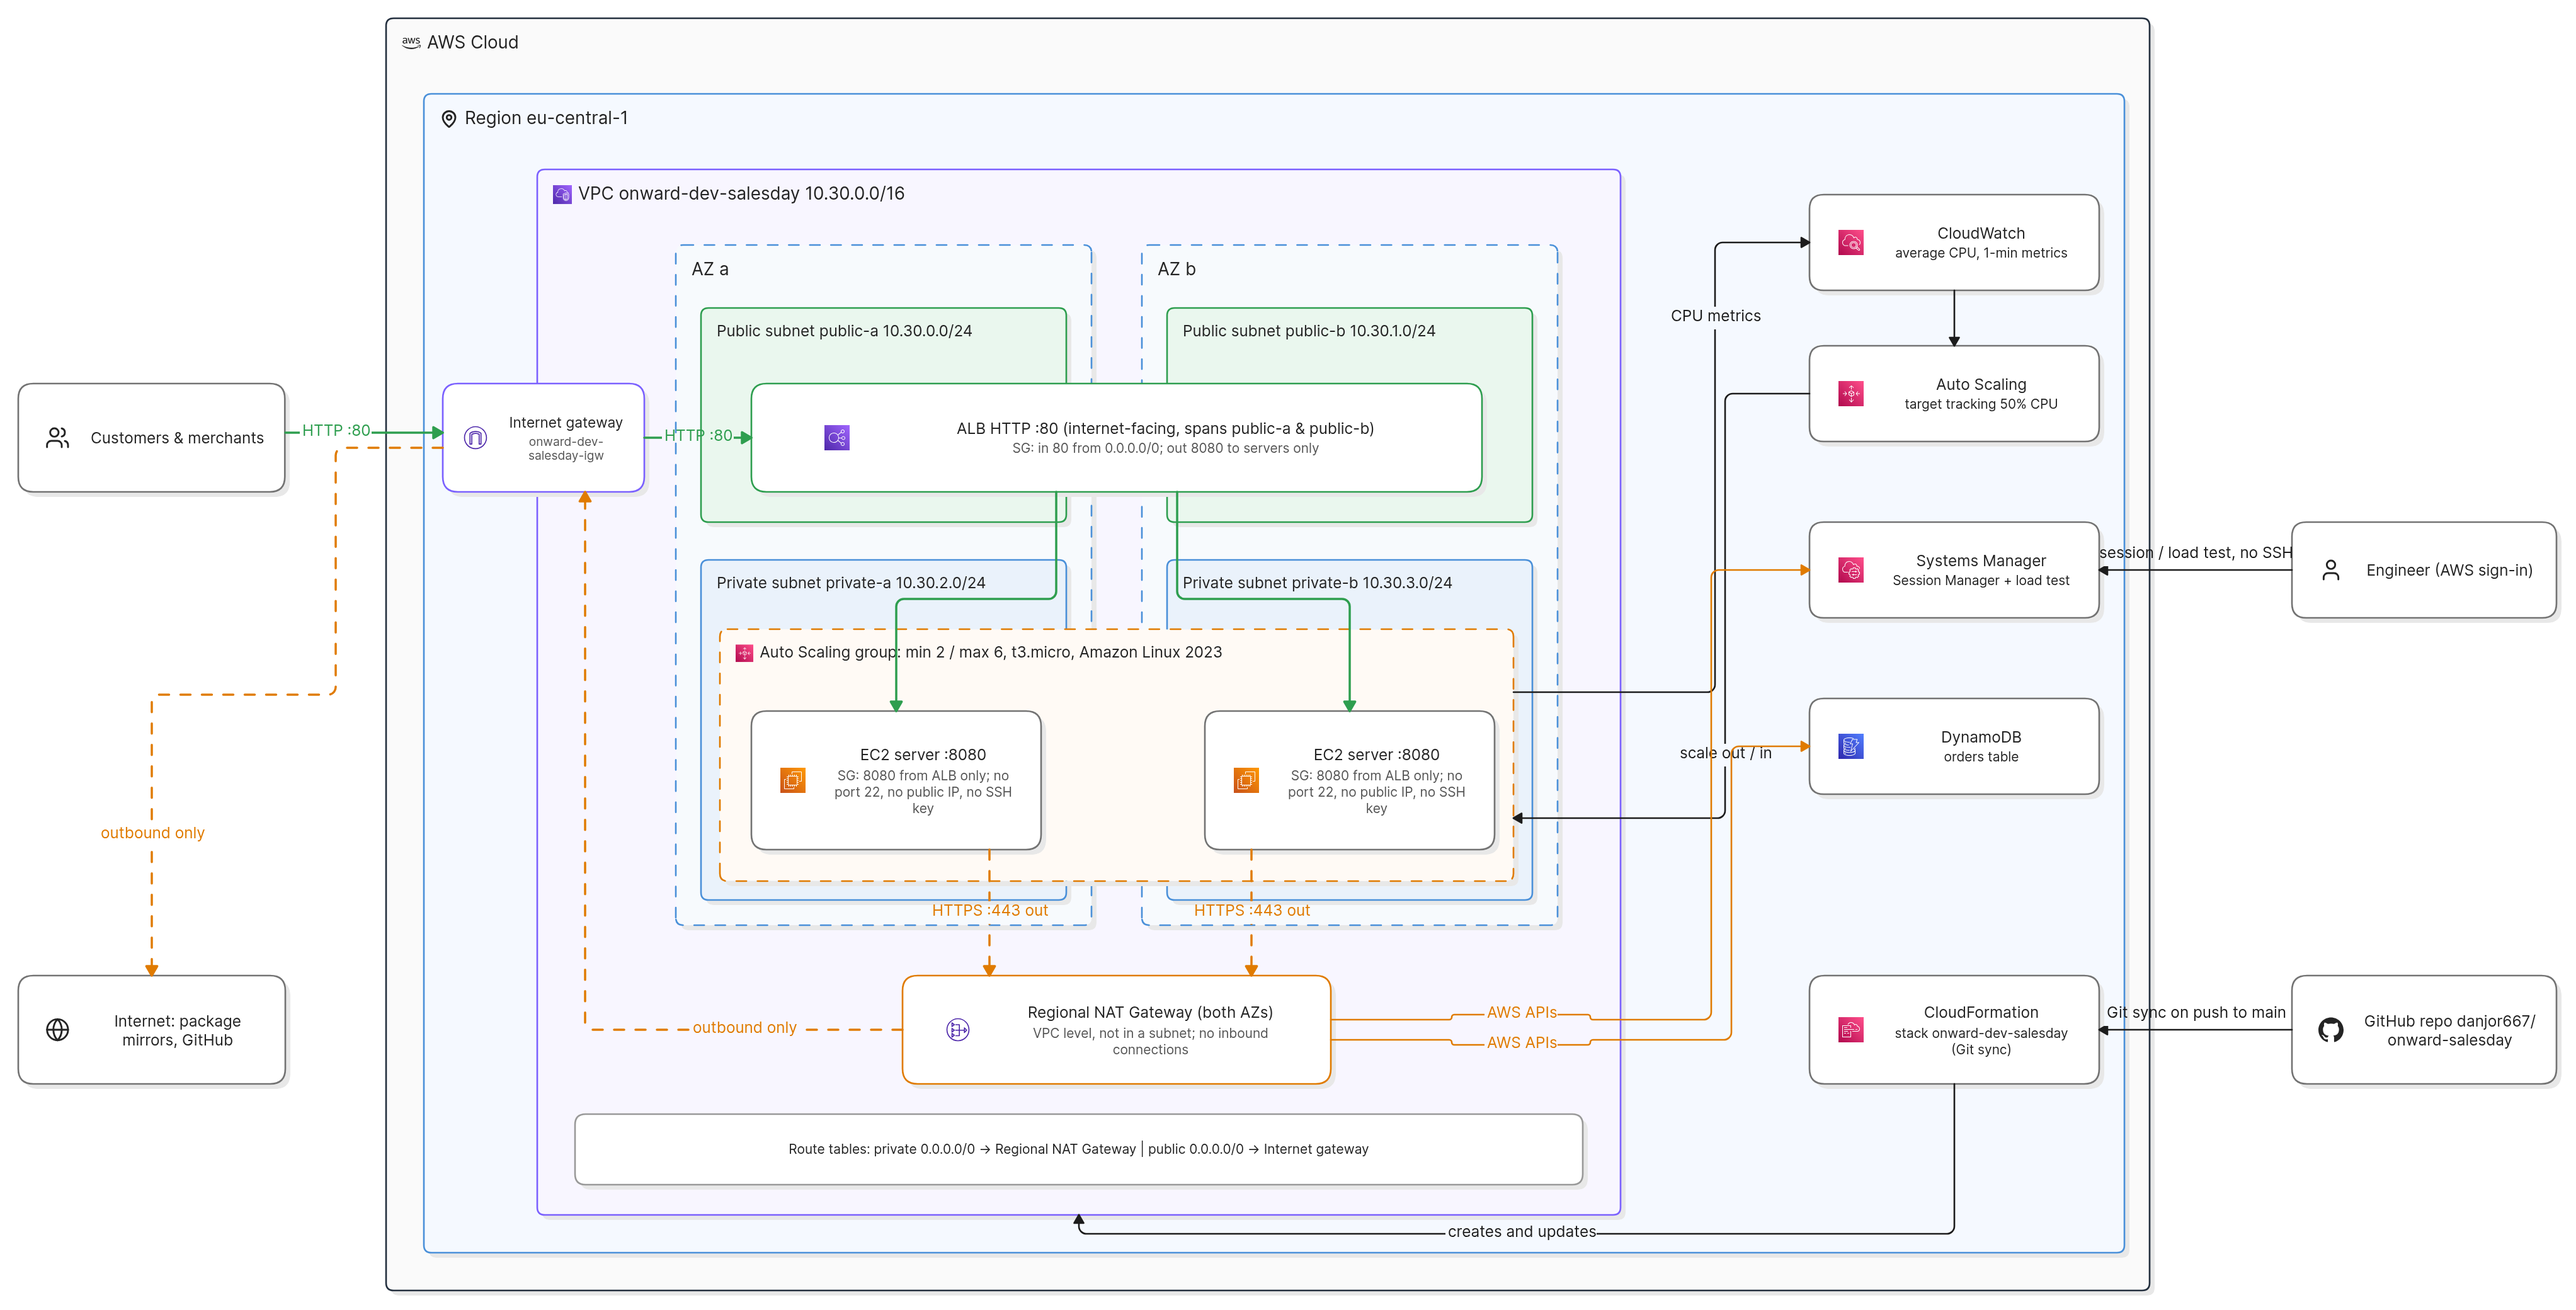
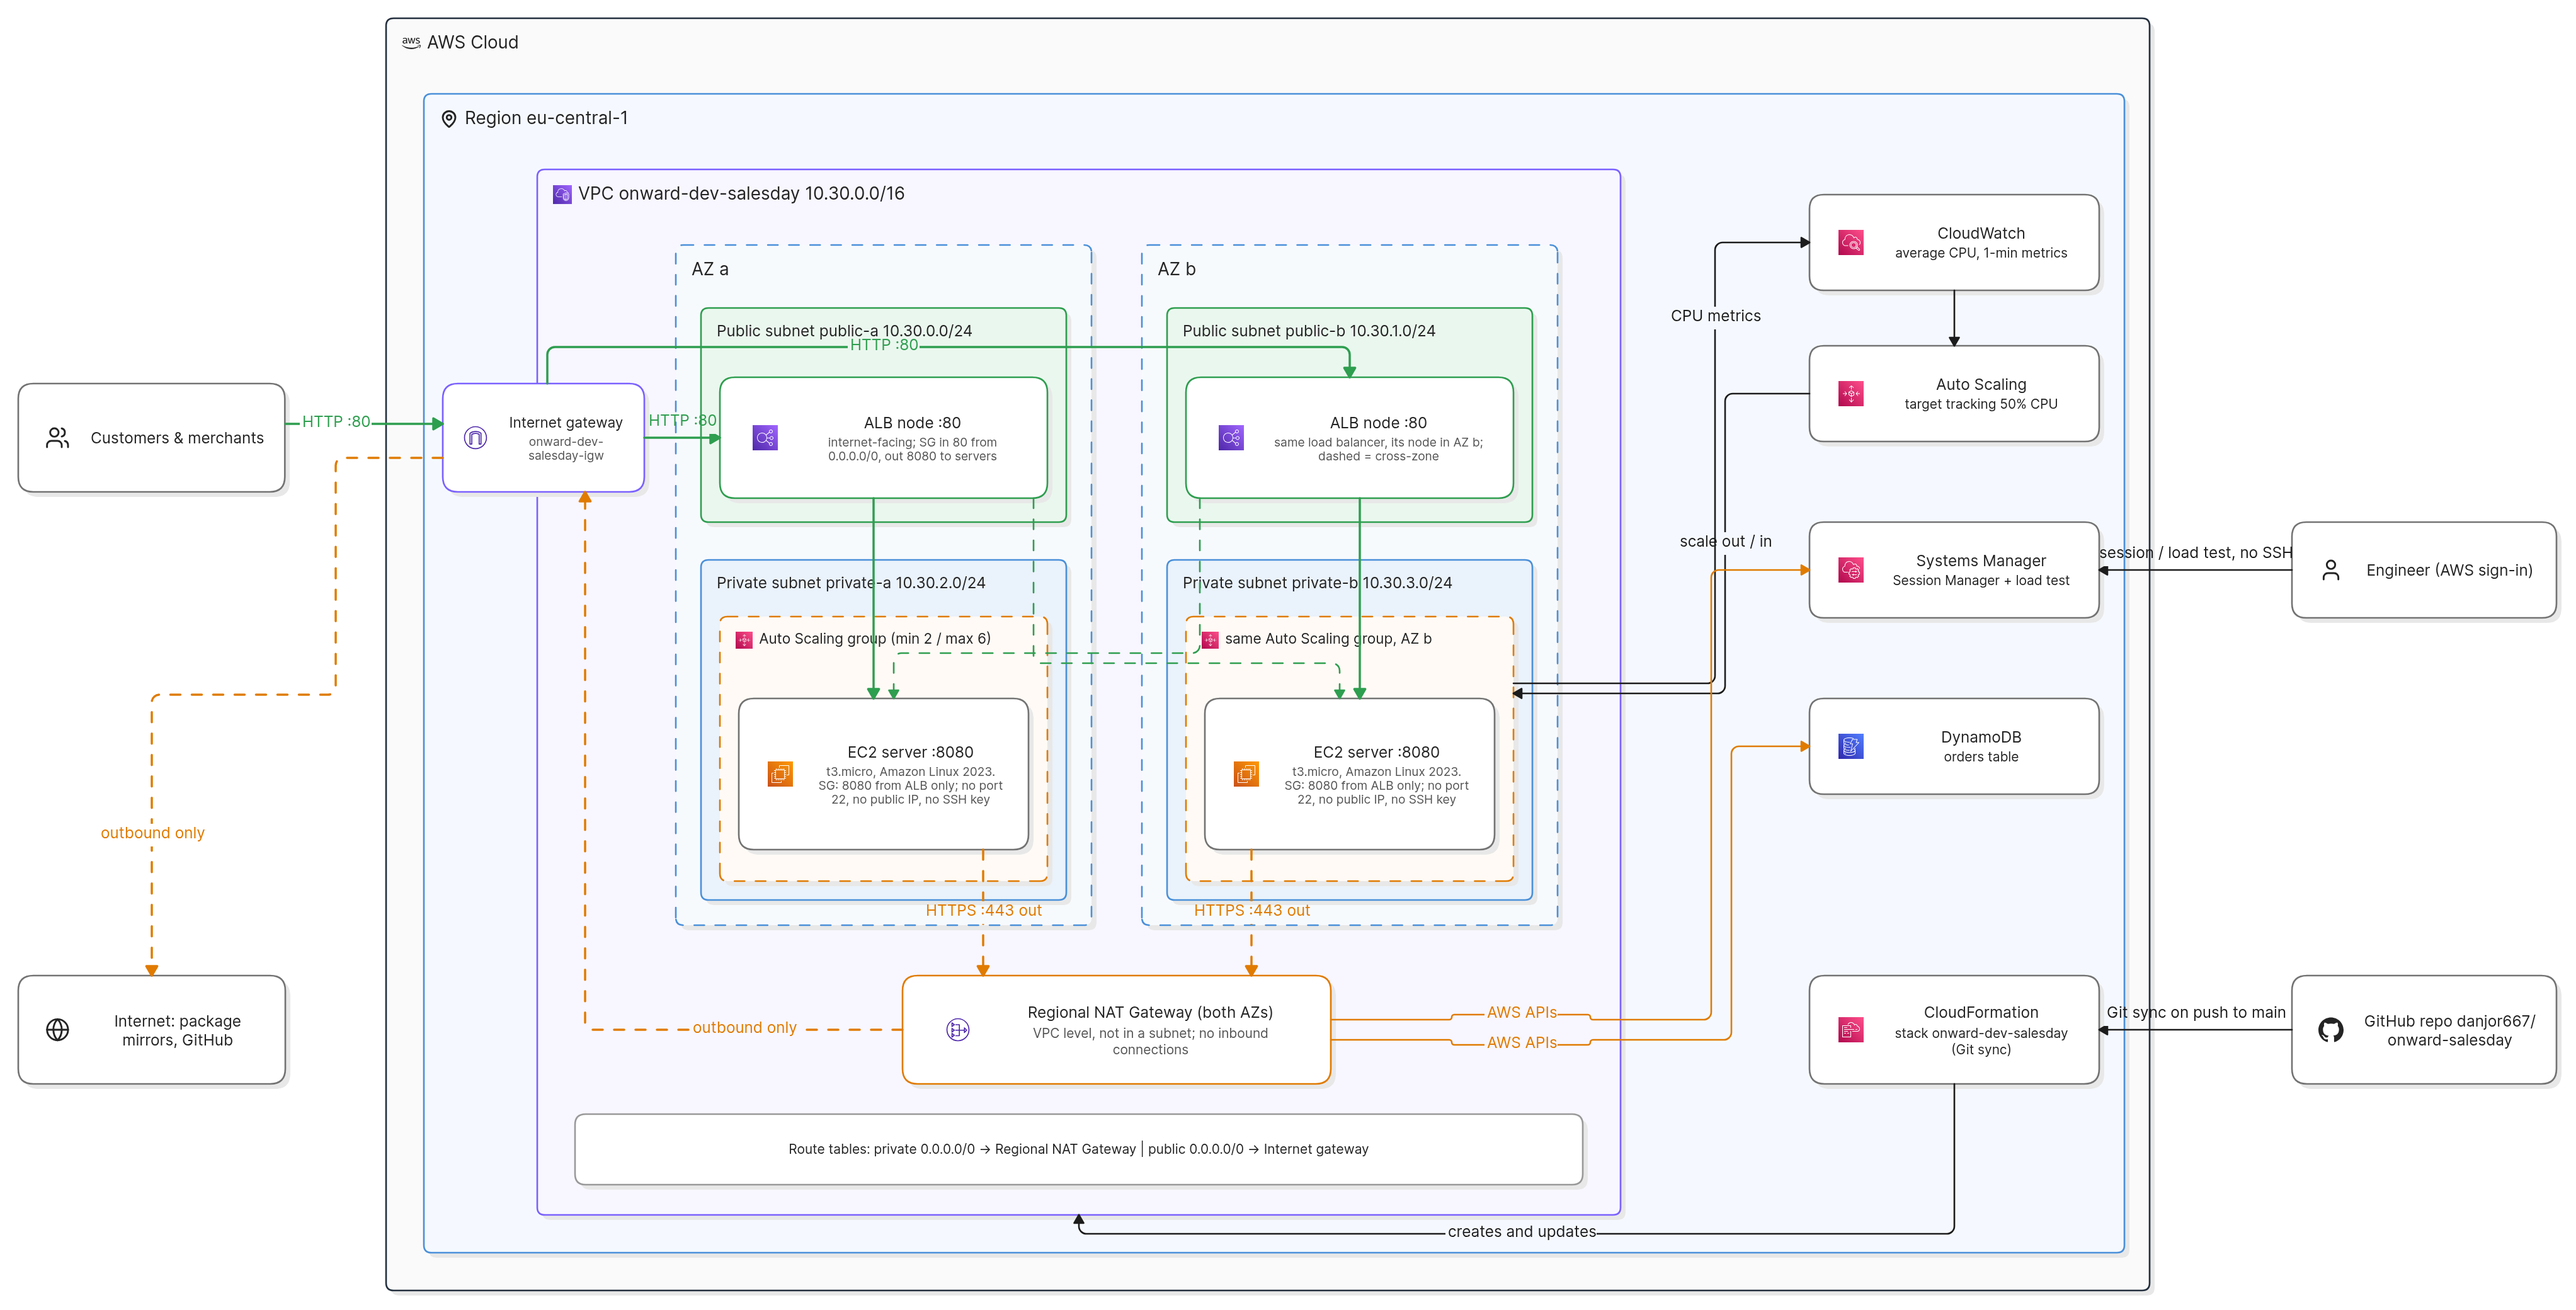
Update documentation for discovery reports and remove obsolete links
The discovery reports now include key design decisions alongside existing information. Removed outdated references to `docs/decisions.md`, which is no longer relevant, to maintain consistency. Added a new discovery report file in `onward-orders-infra`.

diff --git a/README.md b/README.md
@@ -12,33 +12,45 @@ console.
 
 ```mermaid
 flowchart TB
-  USERS((Customers and merchants)) -->|HTTP 80| ALB
+  USERS((Customers and merchants)) -->|HTTP 80| IGW[Internet gateway]
 
-  subgraph VPC["VPC, two Availability Zones"]
-    subgraph PUB["Public subnets"]
-      ALB[Application Load Balancer<br/>the only public address]
+  subgraph VPC["VPC 10.30.0.0/16"]
+    subgraph AZA["Availability Zone a"]
+      subgraph PUBA["Public subnet 10.30.0.0/24"]
+        ALBA[Load balancer node]
+      end
+      subgraph PRIVA["Private subnet 10.30.2.0/24"]
+        EC2A["EC2 server :8080"]
+      end
     end
-    subgraph PRIV["Private subnets: no public IP, no inbound from internet"]
-      ASG["Auto Scaling group, 2 to 6 servers<br/>Amazon Linux 2023, t3.micro"]
+    subgraph AZB["Availability Zone b"]
+      subgraph PUBB["Public subnet 10.30.1.0/24"]
+        ALBB[Load balancer node]
+      end
+      subgraph PRIVB["Private subnet 10.30.3.0/24"]
+        EC2B["EC2 server :8080"]
+      end
     end
-    NAT[Regional NAT Gateway<br/>outbound only]
+    NAT[Regional NAT Gateway<br/>both zones, outbound only]
     GWE[S3 and DynamoDB<br/>gateway endpoints]
   end
 
-  ALB -->|8080, health checked| ASG
-  ASG -->|HTTPS out| NAT --> NET((Internet:<br/>GitHub, Systems Manager))
-  ASG --> GWE
+  IGW --> ALBA & ALBB
+  ALBA & ALBB -->|8080, health checked| EC2A & EC2B
+  EC2A & EC2B -->|HTTPS out| NAT --> NET((Internet:<br/>GitHub, Systems Manager))
+  EC2A & EC2B --> GWE
   GWE -->|orders| DDB[(DynamoDB orders table<br/>shared by all servers)]
   GWE -->|packages| S3[(Amazon Linux repositories in S3)]
-  CW[CloudWatch: average CPU] -->|above 50%: add<br/>well below: remove| ASG
-  ENG[Engineer with AWS credentials] -->|Systems Manager,<br/>no SSH, no open port| ASG
+  ASG["Auto Scaling group<br/>2 to 6 servers, t3.micro"] -.-> EC2A & EC2B
+  CW[CloudWatch: average CPU] -->|above 50% for 3 min: add<br/>below 40% for 3 min: remove one| ASG
+  ENG[Engineer with AWS credentials] -->|Systems Manager,<br/>no SSH, no open port| EC2A & EC2B
 ```
 
-- **Customers** reach one address: the load balancer. It shares requests across healthy servers.
+- **Customers** reach one address: the load balancer. AWS runs a node of it in each zone's public subnet (drawn separately above), and either node can send requests to healthy servers in both zones.
 - **Servers** sit in private subnets. Nothing on the internet can connect to them. They connect *out* through one Regional NAT Gateway, which serves both zones. Orders (DynamoDB) and packages (S3) go through free gateway endpoints and never leave the AWS network.
 - **The network follows the VPC lab** (`onward-orders` network): public subnets for the load balancer, private subnets for servers, and gateway endpoints. Instead of the VPC lab's NAT gateway per zone, it uses one Regional NAT Gateway, which spans both zones by itself: no Elastic IPs and one private route table.
 - **The Auto Scaling group** keeps between two and six servers running, spread over two zones. It replaces any server that fails its health check.
-- **A scaling policy** watches average CPU. Above 50% it adds servers; when CPU stays low it removes them.
+- **Two scaling rules** watch average CPU. Above 50% for 3 minutes, servers are added; below 40% for 3 minutes, one server is removed at a time.
 - **Each server builds itself** at launch: it downloads this repository and runs `scripts/install.sh`. Nobody logs in.
 - **Every page shows which server answered** (instance ID and zone), so you can watch requests spread as servers come and go.
 - **Orders live in one DynamoDB table** shared by all servers, so an order placed through one server is found by every other, including servers that did not exist when it was placed.
@@ -49,7 +61,7 @@ flowchart TB
 
 | Path | What it is |
 |---|---|
-| `infra/template.yaml` | The whole infrastructure, in seven numbered sections |
+| `infra/template.yaml` | The whole infrastructure, in six numbered sections |
 | `infra/deployments/dev.yaml` | GitSync deployment file: parameters and tags for the `dev` stack |
 | `bootstrap/` | The two templates that switch GitSync on. Deployed once from a terminal |
 | `app/` | The order application (see below) |
@@ -57,7 +69,8 @@ flowchart TB
 | `scripts/load-test.sh` | Simulates a sales day, securely |
 | `tests/` | Application tests |
 | `docs/discovery-report.docx` | Discovery report (Word): the problem, options considered, the business value and the key design decisions |
-| `docs/architecture.png` | Architecture diagram |
+| `docs/architecture.png` | Architecture diagram, exported from Eraser |
+| `docs/architecture.eraser` | Source of the diagram: paste into [Eraser](https://www.eraser.io) to edit and re-export |
 | `docs/cost.md` | What the design costs on a quiet day and on a peak day |
 
 ### Inside `app/`
